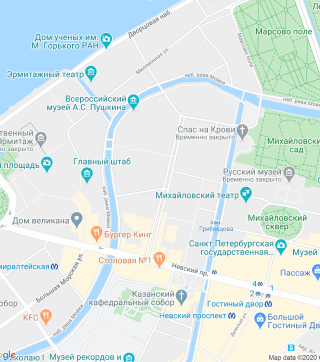
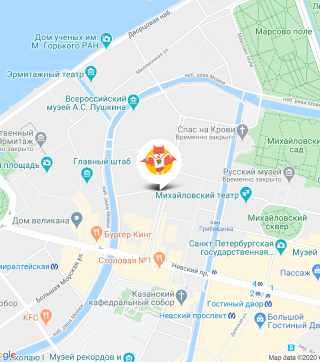
Вносит правки по второму заданию

Changed region(s): [[0.4375, 0.395, 0.5625, 0.547]]

diff --git a/source/form.html b/source/form.html
@@ -17,7 +17,6 @@
     </a>
     <nav class="navigation">
       <button class="navigation__toggle" type="button"><span class="visually-hidden">Открыть меню</span></button>
-      <div class="navigation-container">
         <ul class="navigation__list">
           <li class="navigation__item">
             <a class="navigation__link" href="index.html">Главная</a>
@@ -29,7 +28,6 @@
             <a class="navigation__link">Подбор программы</a>
           </li>
         </ul>
-      </div>
     </nav>
   </header>
 
@@ -99,9 +97,7 @@
 
           <div class="program-selection__comment comment">
             <h3 class="comment__title subtitle">Комментарий</h3>
-            <p class="comment">
-              <input class="comment__input" type="text" name="comment" placeholder="Расскажите обо всех повадках кота">
-            </p>
+            <textarea class="comment__area" name="comment" rows="10" placeholder="Расскажите обо всех повадках кота"></textarea>
           </div>
 
           <div class="program-selection__optionally optionally">
@@ -134,9 +130,11 @@
         </form>
       </div>
     </section>
+  </main>
 
-    <section class="contacts">
-      <div class="contacts__container">
+  <footer class="main-footer">
+    <div class="main-footer__container">
+      <div class="main-footer__contacts contacts">
         <h2 class="visually-hidden">Контакты</h2>
         <address class="contacts__cooperation">
           <p class="contacts__description">Приглашаем к&nbsp;сотрудничеству дилеров!</p>
@@ -145,39 +143,31 @@
         </address>
         <div class="contacts__map">
           <img class="contacts__image" src="img/map.png" width="320" height="362" alt="Карта города с адресом магазина">
-          <img class="contacts__pin" src="img/map-pin.png" width="57" height="53"
-            alt="Отметка на карте адреса магазина">
         </div>
       </div>
-    </section>
-  </main>
 
-  <footer class="main-footer">
-    <div class="main-footer__container">
       <div class="main-footer__logo logo">
         <a class="logo__link" href="index.html">
           <img class="logo__text" src="img/logo-text.svg" alt="Логотип сайта Кэт энерджи" width="110" height="18">
         </a>
       </div>
-      <div class="main-footer__social social">
-        <ul class="social__list">
-          <li class="social__item">
-            <a class="social__link social__link--vkontakte" href="https://vk.com/htmlacademy">
-              <span class="visually-hidden">Вконтакте</span>
-            </a>
-          </li>
-          <li class="social__item">
-            <a class="social__link social__link--youtube" href="https://www.youtube.com/user/htmlacademyru">
-              <span class="visually-hidden">Ютуб</span>
-            </a>
-          </li>
-          <li class="social__item">
-            <a class="social__link social__link--telegram" href="https://t.me/htmlacademy">
-              <span class="visually-hidden">Телеграм</span>
-            </a>
-          </li>
-        </ul>
-      </div>
+      <ul class="main-footer__social social">
+        <li class="social__item">
+          <a class="social__link social__link--vkontakte" href="https://vk.com/htmlacademy">
+            <span class="visually-hidden">Вконтакте</span>
+          </a>
+        </li>
+        <li class="social__item">
+          <a class="social__link social__link--youtube" href="https://www.youtube.com/user/htmlacademyru">
+            <span class="visually-hidden">Ютуб</span>
+          </a>
+        </li>
+        <li class="social__item">
+          <a class="social__link social__link--telegram" href="https://t.me/htmlacademy">
+            <span class="visually-hidden">Телеграм</span>
+          </a>
+        </li>
+      </ul>
       <div class="main-footer__copyright copyright">
         <a class="copyright__link" href="https://htmlacademy.ru/intensive/adaptive">
           <b class="copyright__text">HTML Academy</b>

diff --git a/source/catalog.html b/source/catalog.html
@@ -17,7 +17,6 @@
     </a>
     <nav class="navigation">
       <button class="navigation__toggle" type="button"><span class="visually-hidden">Открыть меню</span></button>
-      <div class="navigation-container">
         <ul class="navigation__list">
           <li class="navigation__item">
             <a class="navigation__link" href="index.html">Главная</a>
@@ -29,7 +28,6 @@
             <a class="navigation__link" href="form.html">Подбор программы</a>
           </li>
         </ul>
-      </div>
     </nav>
   </header>
 
@@ -252,9 +250,11 @@
         <p class="promo__description">Закажите все и&nbsp;получите чехол для кота в&nbsp;подарок!</p>
       </div>
     </section>
+  </main>
 
-    <section class="contacts">
-      <div class="contacts__container">
+  <footer class="main-footer">
+    <div class="main-footer__container">
+      <div class="main-footer__contacts contacts">
         <h2 class="visually-hidden">Контакты</h2>
         <address class="contacts__cooperation">
           <p class="contacts__description">Приглашаем к&nbsp;сотрудничеству дилеров!</p>
@@ -263,39 +263,31 @@
         </address>
         <div class="contacts__map">
           <img class="contacts__image" src="img/map.png" width="320" height="362" alt="Карта города с адресом магазина">
-          <img class="contacts__pin" src="img/map-pin.png" width="57" height="53"
-            alt="Отметка на карте адреса магазина">
         </div>
       </div>
-    </section>
-  </main>
 
-  <footer class="main-footer">
-    <div class="main-footer__container">
       <div class="main-footer__logo logo">
         <a class="logo__link" href="index.html">
           <img class="logo__text" src="img/logo-text.svg" alt="Логотип сайта Кэт энерджи" width="110" height="18">
         </a>
       </div>
-      <div class="main-footer__social social">
-        <ul class="social__list">
-          <li class="social__item">
-            <a class="social__link social__link--vkontakte" href="https://vk.com/htmlacademy">
-              <span class="visually-hidden">Вконтакте</span>
-            </a>
-          </li>
-          <li class="social__item">
-            <a class="social__link social__link--youtube" href="https://www.youtube.com/user/htmlacademyru">
-              <span class="visually-hidden">Ютуб</span>
-            </a>
-          </li>
-          <li class="social__item">
-            <a class="social__link social__link--telegram" href="https://t.me/htmlacademy">
-              <span class="visually-hidden">Телеграм</span>
-            </a>
-          </li>
-        </ul>
-      </div>
+      <ul class="main-footer__social social">
+        <li class="social__item">
+          <a class="social__link social__link--vkontakte" href="https://vk.com/htmlacademy">
+            <span class="visually-hidden">Вконтакте</span>
+          </a>
+        </li>
+        <li class="social__item">
+          <a class="social__link social__link--youtube" href="https://www.youtube.com/user/htmlacademyru">
+            <span class="visually-hidden">Ютуб</span>
+          </a>
+        </li>
+        <li class="social__item">
+          <a class="social__link social__link--telegram" href="https://t.me/htmlacademy">
+            <span class="visually-hidden">Телеграм</span>
+          </a>
+        </li>
+      </ul>
       <div class="main-footer__copyright copyright">
         <a class="copyright__link" href="https://htmlacademy.ru/intensive/adaptive">
           <b class="copyright__text">HTML Academy</b>

diff --git a/source/index.html b/source/index.html
@@ -17,7 +17,6 @@
     </a>
     <nav class="navigation">
       <button class="navigation__toggle" type="button"><span class="visually-hidden">Открыть меню</span></button>
-      <div class="navigation-container">
         <ul class="navigation__list">
           <li class="navigation__item navigation__item--current">
             <a class="navigation__link">Главная</a>
@@ -29,7 +28,6 @@
             <a class="navigation__link" href="form.html">Подбор программы</a>
           </li>
         </ul>
-      </div>
     </nav>
   </header>
 
@@ -122,9 +120,11 @@
         </div>
       </div>
     </section>
+  </main>
 
-    <section class="contacts">
-      <div class="contacts__container">
+  <footer class="main-footer">
+    <div class="main-footer__container">
+      <div class="main-footer__contacts contacts">
         <h2 class="visually-hidden">Контакты</h2>
         <address class="contacts__cooperation">
           <p class="contacts__description">Приглашаем к&nbsp;сотрудничеству дилеров!</p>
@@ -133,22 +133,15 @@
         </address>
         <div class="contacts__map">
           <img class="contacts__image" src="img/map.png" width="320" height="362" alt="Карта города с адресом магазина">
-          <img class="contacts__pin" src="img/map-pin.png" width="57" height="53"
-            alt="Отметка на карте адреса магазина">
         </div>
       </div>
-    </section>
-  </main>
 
-  <footer class="main-footer">
-    <div class="main-footer__container">
       <div class="main-footer__logo logo">
         <a class="logo__link" href="index.html">
           <img class="logo__text" src="img/logo-text.svg" alt="Логотип сайта Кэт энерджи" width="110" height="18">
         </a>
       </div>
-      <div class="main-footer__social social">
-        <ul class="social__list">
+        <ul class="main-footer__social social">
           <li class="social__item">
             <a class="social__link social__link--vkontakte" href="https://vk.com/htmlacademy">
               <span class="visually-hidden">Вконтакте</span>
@@ -165,7 +158,6 @@
             </a>
           </li>
         </ul>
-      </div>
       <div class="main-footer__copyright copyright">
         <a class="copyright__link" href="https://htmlacademy.ru/intensive/adaptive">
           <b class="copyright__text">HTML Academy</b>
